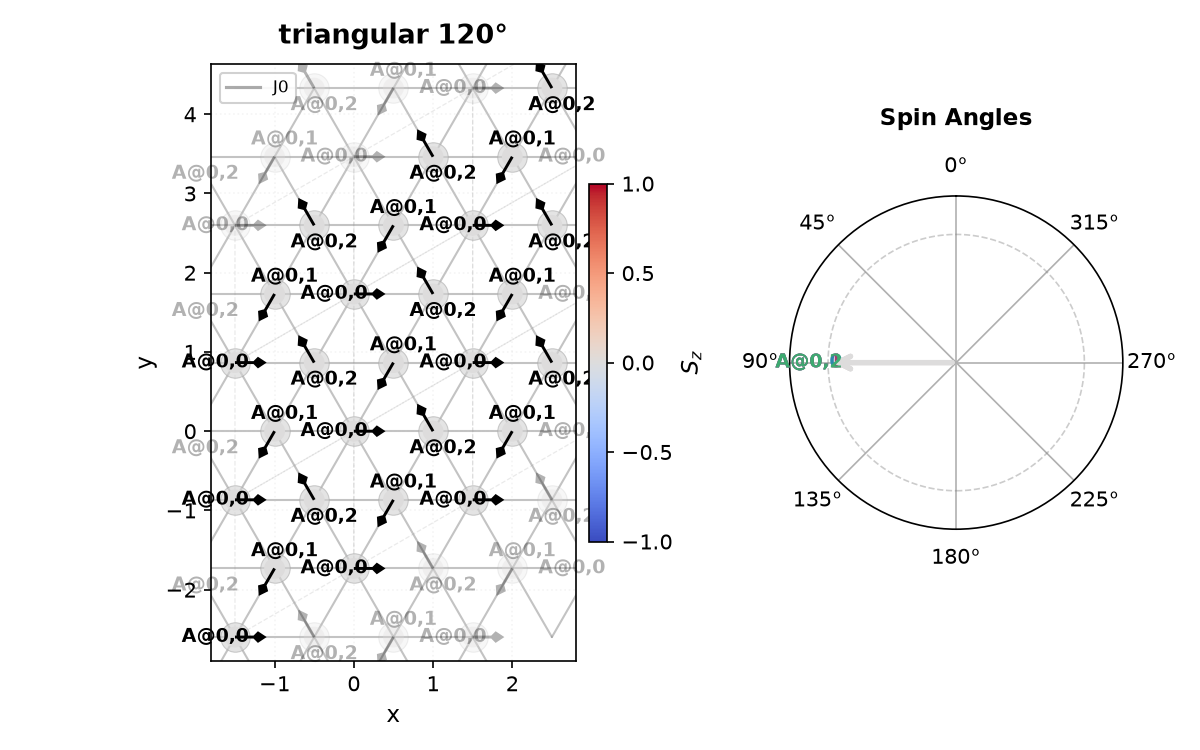
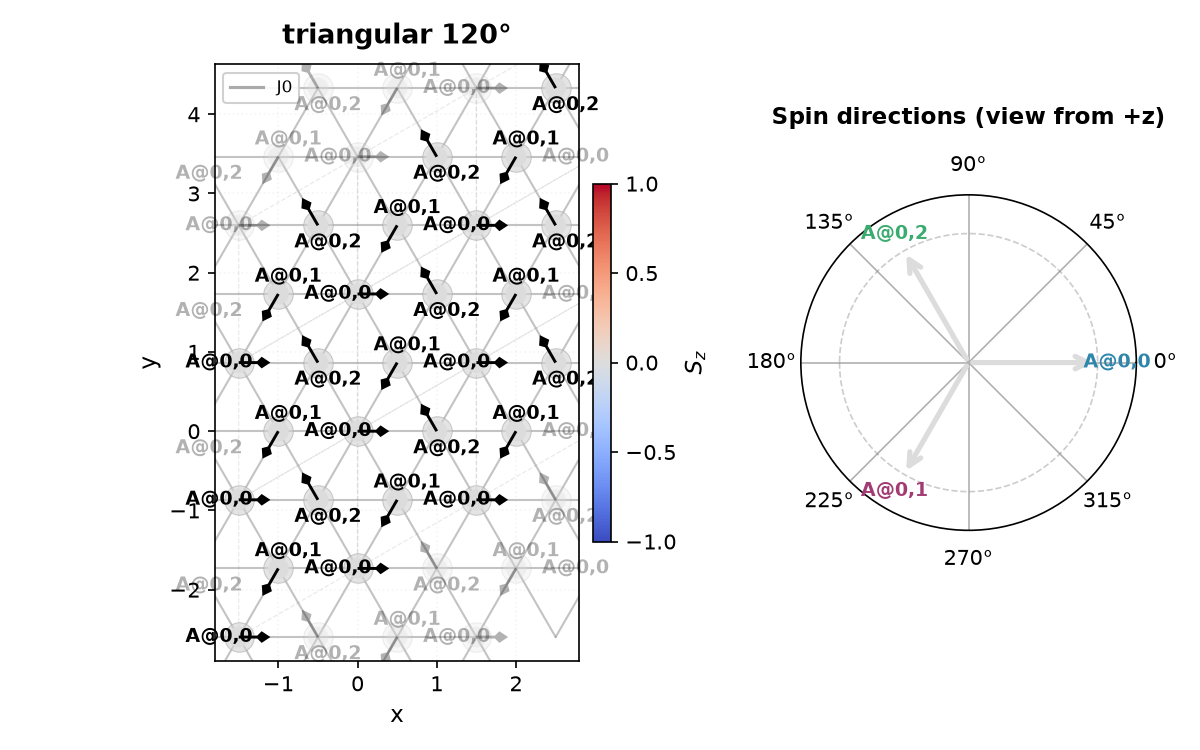
Show the azimuth in the spin-direction panel
The panel drew only the polar angle theta, so coplanar states such as
120 degrees collapsed onto one direction. Each spin is now shown as seen
from +z: an arrow at the azimuth phi with length sin(theta), coloured
by Sz, in the same convention as the in-plane arrows of the lattice
panel.

Claude-Session: https://claude.ai/code/session_012XkeTYzfQVsHrUnaDjsAaG

diff --git a/code-space/spintoolkit/visualization/spin_plotter.py b/code-space/spintoolkit/visualization/spin_plotter.py
@@ -10,7 +10,7 @@ Visualizes spin arrangements on a 2D lattice:
 - Spin marker fill color = Sz component (coolwarm colormap)
 - Black quiver arrow = Sxy projection (in-plane spin direction)
 - Pure z-spin (no xy component) = colored dot (red=up, blue=down)
-- Optional polar subplot showing angular distribution of spins
+- Optional polar subplot: every spin seen from +z (azimuth phi, length sin theta)
 """
 
 import warnings
@@ -151,7 +151,7 @@ def plot_spin_configuration(model, state=None, n_repeat=1, figsize=(8, 8),
     - Pure z-spin: colored dot (red=up, blue=down), no arrow
 
     If show_polar=True and ax is None, creates a two-panel figure with
-    the spin configuration on the left and a polar angle distribution
+    the spin configuration on the left and the spin directions seen from +z
     on the right.
 
     Parameters
@@ -171,7 +171,7 @@ def plot_spin_configuration(model, state=None, n_repeat=1, figsize=(8, 8),
     show_unit_cell : bool, optional
         Draw unit cell boundary (default: True).
     show_polar : bool, optional
-        Show polar angle distribution subplot (default: True).
+        Show the spin directions seen from +z (default: True).
     arrow_scale : float or None, optional
         Quiver scale factor. If None, auto-computed from inter-site distance.
     title : str, optional
@@ -415,36 +415,40 @@ def _draw_spin_lattice(ax, system, n_repeat, show_couplings,
 # ======================================================================
 
 def _draw_polar_angles(ax, system):
-    """Draw polar angle distribution of spins.
+    """Draw the direction of every magnetic site on the unit sphere, seen from +z.
 
-    Each sublattice is shown as a colored arrow from origin to the unit
-    circle at angle theta. The arrow color uses coolwarm for Sz.
+    Each site is an arrow at the azimuth phi (measured from +x,
+    counterclockwise, as the in-plane arrows of the lattice panel) with
+    length sin(theta), the in-plane part of the unit spin; its colour is Sz.
+    Coplanar states such as 120 degrees therefore show their full angular
+    pattern, and the two hemispheres are told apart by colour. A spin along
+    +-z (no in-plane part) is a dot at the centre.
     """
     sz_cmap = plt.cm.coolwarm
     sz_norm = Normalize(vmin=-1, vmax=1)
 
-    ax.set_title("Spin Angles", pad=15, fontsize=11, fontweight='bold')
+    ax.set_title("Spin directions (view from +z)", pad=15, fontsize=11,
+                 fontweight='bold')
     ax.plot(np.linspace(-np.pi, np.pi, 200), np.ones(200),
             '--', color='gray', alpha=0.4, linewidth=0.8)
     ax.set_rticks([])
     ax.set_rlim(0, 1.3)
-    ax.set_theta_offset(np.pi / 2)  # 0 at top
 
     for i, site in enumerate(system.sites):
         theta, phi_angle = site.angles
-        spin_vec = _spin_direction(theta, phi_angle)
-        sz = spin_vec[2]
+        sx, sy, sz = _spin_direction(theta, phi_angle)
+        sxy = np.hypot(sx, sy)
         sz_color = sz_cmap(sz_norm(sz))
         sub_color = SUBLATTICE_COLORS[i % len(SUBLATTICE_COLORS)]
 
-        # Normalize theta to [0, 2*pi)
-        theta_plot = np.mod(theta, 2 * np.pi)
-
-        # Arrow from center to unit circle
-        ax.annotate('', xy=(theta_plot, 1.0), xytext=(theta_plot, 0),
-                    arrowprops=dict(arrowstyle='->', color=sz_color,
-                                    lw=2.5, mutation_scale=15))
-
-        # Sublattice label near arrow tip
-        ax.text(theta_plot, 1.15, site.label, ha='center', va='center',
-                fontsize=9, fontweight='bold', color=sub_color)
+        if sxy > 1e-3:
+            azimuth = np.arctan2(sy, sx)
+            ax.annotate('', xy=(azimuth, sxy), xytext=(azimuth, 0),
+                        arrowprops=dict(arrowstyle='->', color=sz_color,
+                                        lw=2.5, mutation_scale=15))
+            ax.text(azimuth, sxy + 0.15, site.label, ha='center', va='center',
+                    fontsize=9, fontweight='bold', color=sub_color)
+        else:
+            ax.scatter([0], [0], c=[sz_color], s=60, zorder=3)
+            ax.text(0, 0.15, site.label, ha='center', va='center',
+                    fontsize=9, fontweight='bold', color=sub_color)

diff --git a/docs/development/appendices/a-implementation-verification.tex b/docs/development/appendices/a-implementation-verification.tex
@@ -795,11 +795,10 @@ save_json(r, "lswt.json")  # 머리부 + 요약
     선 = 저장된 수치 & 정사각 Néel(2밴드), 삼각 120°(접힌 3밴드): 그린 선이 \texttt{BandStructure.energies}와 정확히 같음; 영모드 표시 3점은 Goldstone 꼭짓점의 $E=0$ \\
     불안정 & 정사각 반강자성을 포화 아래 장으로 편극($h=3<h_{\mathrm{sat}}=4$): $\omega=h-2(1-\gamma_k)<0$인 M 주변 85/301점이 NaN, 그림은 음영 빈칸; 안정 구간은 식과 $1.3\times10^{-15}$ \\
     단위 & 계산은 $E_0$(D20); 표시 단위는 \texttt{energy\_scale}과 맞는 \texttt{energy\_label}을 함께 줄 때만 \\
-    스핀 배치 & \texttt{to\_spin\_system}을 거쳐 기존 그리기 그대로; \texttt{SpinSystem} 입력은 사용 중단 경고(D30) \\
+    스핀 배치 & \texttt{to\_spin\_system}을 거쳐 기존 그리기; \texttt{SpinSystem} 입력은 사용 중단 경고(D30). 방향 패널은 $+z$에서 본 스핀(방위각 $\phi$, 길이 $\sin\theta$, 색 $S_z$)으로 바꿈: 이전에는 $\theta$만 보여 공면 120°가 한 방향으로 겹쳤다 \\
     \bottomrule
   \end{tabularx}
   \par\smallskip
-  \supportingtext{검토할 것: 극좌표 패널은 극각 $\theta$만 보여 공면 상태(120°)가 한 방향으로 겹친다.}
   \slidesource{7단계 검증 기록}{stage7}
 \end{frame}
 

diff --git a/code-space/tests/test_visualization/test_plots.py b/code-space/tests/test_visualization/test_plots.py
@@ -85,3 +85,13 @@ def test_spin_configuration_draws_the_state_of_the_model():
             plot_spin_configuration(system, show_polar=False)
     with pytest.raises(TypeError):
         plot_spin_configuration(system, state)
+
+
+def test_direction_panel_shows_the_coplanar_120_degree_pattern():
+    model = triangular_heisenberg()
+    fig, (_, ax_polar) = plot_spin_configuration(model, state_120(model))
+    tips = [a.xy for a in ax_polar.texts if hasattr(a, "arrow_patch") and a.arrow_patch is not None]
+    assert len(tips) == 3
+    azimuths = np.sort(np.mod([t[0] for t in tips], 2 * np.pi))
+    np.testing.assert_allclose(np.diff(azimuths), 2 * np.pi / 3, atol=1e-12)
+    np.testing.assert_allclose([t[1] for t in tips], 1.0, atol=1e-12)   # in-plane spins
